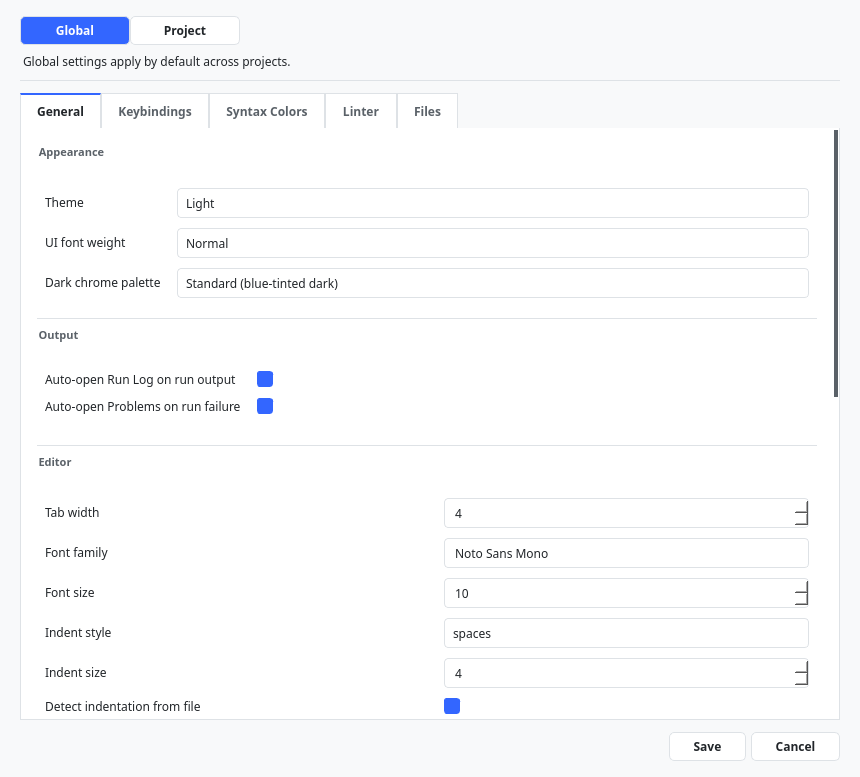
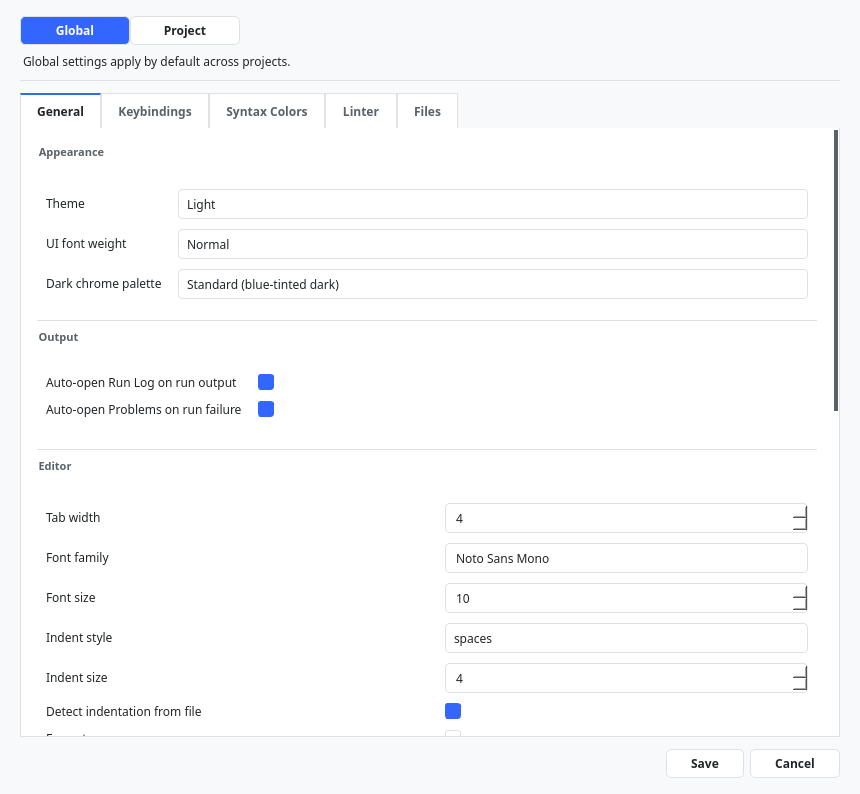
docs(manual): add in-process capture harness + Settings/editor screenshots
- capture_harness.py / capture_run.sh: reproducible in-process Qt grab
  (QWidget.grab) driven through AppRun; builds the real MainWindow, loads the
  demo project, and captures dialogs/panels deterministically. Documented as
  the primary capture method in capture/README.md.
- New screenshots: the four previously-undocumented Settings tabs (Keybindings,
  Syntax Colors, Linter, Files) and a Python-editor-with-Outline shot; refreshed
  General settings shot. Wired into chapters 230 and 070.
- Populated screenshots/shot_list.json (was an empty stub) with every captured
  shot + documented planned gaps; added screenshots/caption_map.md.

diff --git a/docs/manual_complete/screenshots/capture/capture_harness.py b/docs/manual_complete/screenshots/capture/capture_harness.py
@@ -1,0 +1,200 @@
+"""In-process screenshot capture harness for the Complete Edition manual.
+
+Run through FreeCAD AppRun with a real X display, e.g.::
+
+    FREECAD_APPRUN="$HOME/opt/freecad/AppRun" CBCS_ARTIFACTS_DIR="$HOME/cbcs_artifacts" \
+    DISPLAY=:1 ./run_dev.sh   # (not this script; see below)
+
+This script is launched by ``capture_run.sh`` through AppRun. It builds the real
+MainWindow, loads the bundled example project, then drives dialogs/panels
+programmatically and saves deterministic PNGs via ``QWidget.grab()``. This is the
+reproducible, no-mouse capture method (QWidget.grab is DPI-stable and needs no
+external tool), and replaces ad-hoc xdotool choreography.
+
+Output PNGs are written to the directory given by ``CBCS_SHOT_OUT`` (default
+``/tmp/caps``). A human curates and renames the good ones into ``screenshots/``.
+"""
+
+from __future__ import annotations
+
+import os
+import sys
+from pathlib import Path
+
+REPO_ROOT = "/workspace"
+if REPO_ROOT not in sys.path:
+    sys.path.insert(0, REPO_ROOT)
+_VENDOR = os.path.join(REPO_ROOT, "vendor")
+if os.path.isdir(_VENDOR) and _VENDOR not in sys.path:
+    sys.path.insert(0, _VENDOR)
+os.chdir(REPO_ROOT)
+
+# Prevent the harness from spawning REPL / plugin-host subprocesses.
+os.environ.setdefault("CBCS_DISABLE_BACKGROUND_RUNTIME", "1")
+
+OUT_DIR = Path(os.environ.get("CBCS_SHOT_OUT", "/tmp/caps"))
+OUT_DIR.mkdir(parents=True, exist_ok=True)
+EXAMPLE_PROJECT = os.environ.get("CBCS_DEMO_PROJECT", "/workspace/example_projects/crud_showcase")
+
+from PySide2.QtCore import QTimer  # noqa: E402
+from PySide2.QtWidgets import QApplication, QTabWidget  # noqa: E402
+
+from app.bootstrap.capability_probe import run_startup_capability_probe  # noqa: E402
+from app.shell.main_window import MainWindow  # noqa: E402
+
+
+_LOG_FILE = OUT_DIR / "capture_progress.log"
+
+
+def log(msg: str) -> None:
+    line = f"[capture] {msg}"
+    print(line, flush=True)
+    try:
+        with open(_LOG_FILE, "a", encoding="utf-8") as fh:
+            fh.write(line + "\n")
+            fh.flush()
+    except Exception:
+        pass
+
+
+def settle(app: QApplication, ms: int = 400) -> None:
+    from PySide2.QtCore import QElapsedTimer
+
+    t = QElapsedTimer()
+    t.start()
+    while t.elapsed() < ms:
+        app.processEvents()
+
+
+def grab(widget, name: str) -> None:
+    path = OUT_DIR / name
+    pix = widget.grab()
+    pix.save(str(path))
+    log(f"saved {path} ({pix.width()}x{pix.height()})")
+
+
+def capture_modal_tabs(app, trigger, base_name: str, settle_ms: int = 900) -> None:
+    """Open a modal dialog, grab each of its tabs, then close it."""
+
+    def do_grab() -> None:
+        dlg = app.activeModalWidget() or app.activeWindow()
+        if dlg is None:
+            log(f"{base_name}: no modal dialog found")
+            return
+        tabs = dlg.findChild(QTabWidget)
+        if tabs is not None and tabs.count() > 0:
+            for i in range(tabs.count()):
+                tabs.setCurrentIndex(i)
+                settle(app, 250)
+                label = tabs.tabText(i).strip().lower().replace(" ", "_").replace("&", "")
+                grab(dlg, f"{base_name}_{i:02d}_{label}.png")
+        else:
+            grab(dlg, f"{base_name}.png")
+        dlg.close()
+
+    QTimer.singleShot(settle_ms, do_grab)
+    trigger()  # blocks in exec_(); the singleShot fires inside the modal loop
+
+
+def capture_modal(app, trigger, name: str, settle_ms: int = 900) -> None:
+    def do_grab() -> None:
+        dlg = app.activeModalWidget() or app.activeWindow()
+        if dlg is None:
+            log(f"{name}: no modal dialog found")
+            return
+        grab(dlg, name)
+        dlg.close()
+
+    QTimer.singleShot(settle_ms, do_grab)
+    trigger()
+
+
+def main() -> int:
+    log("main() starting")
+    app = QApplication.instance() or QApplication(sys.argv)
+    log("QApplication ready")
+    report = run_startup_capability_probe()
+    log(f"startup probe: {report.available_count}/{report.total_count} checks")
+    log("building MainWindow")
+    win = MainWindow(startup_report=report)
+    log("MainWindow built")
+    win.resize(1500, 950)
+    win.show()
+    log("window shown")
+    settle(app, 800)
+
+    # Load the bundled example project for realistic content.
+    opened = False
+    try:
+        opened = bool(win._file_project_commands_workflow.open_project_by_path(EXAMPLE_PROJECT))
+    except Exception as exc:  # pragma: no cover - diagnostic path
+        log(f"open_project_by_path raised: {exc!r}")
+    log(f"project opened={opened} ({EXAMPLE_PROJECT})")
+    settle(app, 1500)
+
+    grab(win, "win_project_loaded.png")
+
+    # Open main.py so the editor shows real code and the Outline populates.
+    try:
+        main_py = os.path.join(EXAMPLE_PROJECT, "main.py")
+        if win._editor_tab_factory.open_file_in_editor(main_py, preview=False):
+            settle(app, 1200)
+            grab(win, "win_editor_code.png")
+        else:
+            log("open main.py returned False")
+    except Exception as exc:
+        log(f"open main.py failed: {exc!r}")
+
+    # Markdown preview of README.md.
+    try:
+        readme = os.path.join(EXAMPLE_PROJECT, "README.md")
+        if win._editor_tab_factory.open_file_in_editor(readme, preview=False):
+            settle(app, 600)
+            win._editor_tab_workflow.handle_markdown_show_split_action()
+            settle(app, 1000)
+            grab(win, "win_markdown_split.png")
+    except Exception as exc:
+        log(f"markdown preview failed: {exc!r}")
+
+    # Settings dialog: every tab.
+    try:
+        capture_modal_tabs(app, win._file_project_commands_workflow.handle_open_settings_action, "settings")
+    except Exception as exc:
+        log(f"settings capture failed: {exc!r}")
+    settle(app, 400)
+
+    # Test Explorer panel (requires a loaded project).
+    try:
+        if win._activity_bar is not None:
+            win._activity_bar.set_active_view("test_explorer")
+        win._test_runner_workflow.refresh_discovery()
+        settle(app, 1500)
+        grab(win, "win_test_explorer.png")
+    except Exception as exc:
+        log(f"test explorer capture failed: {exc!r}")
+
+    # Plugin Manager dialog.
+    try:
+        capture_modal(app, win._plugin_dialog_workflow.handle_open_plugin_manager_action, "plugin_manager.png")
+    except Exception as exc:
+        log(f"plugin manager capture failed: {exc!r}")
+    settle(app, 400)
+
+    # Dark theme variant of the main window.
+    try:
+        from app.core import constants
+
+        win._shell_preferences_runtime.handle_set_theme(constants.UI_THEME_MODE_DARK)
+        settle(app, 1200)
+        grab(win, "win_dark.png")
+        win._shell_preferences_runtime.handle_set_theme(constants.UI_THEME_MODE_LIGHT)
+        settle(app, 800)
+    except Exception as exc:
+        log(f"theme capture failed: {exc!r}")
+
+    log("done")
+    return 0
+
+
+if __name__ == "__main__":
+    raise SystemExit(main())

diff --git a/docs/manual_complete/screenshots/caption_map.md b/docs/manual_complete/screenshots/caption_map.md
@@ -1,0 +1,48 @@
+# Caption Map (Complete Edition)
+
+Maps each screenshot id to the caption used in the manual and any callout notes. This
+supports deterministic re-capture (see `capture/README.md`) and the maintenance rule:
+when the UI changes, re-capture the shot and keep the caption accurate.
+
+Captions are the image `alt` text in the referencing chapter. The full shot inventory
+(file, chapter, purpose, capture state) lives in `shot_list.json`.
+
+| Shot id | Caption | Notes |
+| --- | --- | --- |
+| 020_getting_started | The in-app Getting Started onboarding dialog | Help > Getting Started |
+| 030_demo_app | The example task-manager app running | crud_showcase launched |
+| 040_window_tour | The main window with a project loaded | Used in the overview |
+| 040_window_tour_annotated | Annotated tour of the main window | Numbered callouts per region |
+| 050_new_project_dialog | The New Project dialog | |
+| 060_tree_context_menu | The project tree right-click menu | File management actions |
+| 070_editor_code | A Python file open in the editor, with syntax highlighting and the Outline panel populated | crud_showcase/main.py |
+| 080_find_in_files | Find in Files results | |
+| 080_quick_open | Quick Open (Ctrl+P) | |
+| 090_run_configurations | The Run Configurations dialog | |
+| 090_run_running | A run in progress with Run Log output | |
+| 090_run_stopped | A finished run | |
+| 090_run_with_args | The Run With Arguments dialog | |
+| 100_markdown_split | Markdown split view (source + preview) | |
+| 110_breakpoint | A breakpoint set in the gutter | |
+| 150_problems_panel | The Problems panel with diagnostics | |
+| 170_global_history | The Global History dialog | |
+| 170_recovery_center | The Recovery Center dialog | |
+| 180_add_dependency | The Add Dependency wizard | |
+| 180_dependency_inspector | The Dependency Inspector | |
+| 190_plugin_manager | The Plugin Manager | |
+| 200_package_wizard | The Package Project wizard | |
+| 230_settings_general | The General settings tab | Appearance/Output/Editor/Intelligence groups |
+| 230_settings_keybindings | The Keybindings settings tab, with a searchable command/shortcut table | |
+| 230_settings_syntax_colors | The Syntax Colors settings tab, showing the per-theme token color table | |
+| 230_settings_linter | The Linter settings tab, with provider selection and the per-rule override table | |
+| 230_settings_files | The Files settings tab, with the File Exclusions and Local History groups | |
+| 240_theme_dark | The Dark theme | |
+| 240_theme_menu | The View > Theme submenu | |
+| 250_keyboard_shortcuts | The in-app Keyboard Shortcuts reference | |
+| 260_menu_file | The File menu | |
+| 260_menu_edit | The Edit menu | |
+| 260_menu_run | The Run menu | |
+| 260_menu_view | The View menu | |
+| 260_menu_tools | The Tools menu | |
+| 260_menu_help | The Help menu | |
+| 340_runtime_center | The Runtime Center | |

diff --git a/docs/manual_complete/screenshots/capture/README.md b/docs/manual_complete/screenshots/capture/README.md
@@ -50,10 +50,38 @@ export DISPLAY=:1
 cd /workspace && ./run_dev.sh        # launches DETACHED; do not pipe stdout (held open by child)
 ```
 
-## Capture method (chosen)
+## Capture method (chosen): in-process Qt grab (primary)
 
-The chosen method is **ImageMagick window capture** (`import -window <id>`). It grabs
-only the application's client area — no desktop wallpaper or panel — and is crisp.
+The **primary, reproducible** method is an in-process capture harness,
+`capture_harness.py`, run through AppRun. It builds the real `MainWindow`, loads the
+demo project, drives dialogs/panels programmatically, and saves each as a PNG via
+`QWidget.grab()`. This needs **no mouse choreography and no window manager**, is
+DPI-stable, and produces dozens of deterministic shots in one run.
+
+```bash
+# A clean, headless X display avoids any wedged-session issues:
+Xvfb :99 -screen 0 1600x1050x24 >/tmp/xvfb.log 2>&1 &
+DISPLAY=:99 CBCS_SHOT_OUT=/tmp/caps \
+  docs/manual_complete/screenshots/capture/capture_run.sh
+# Review /tmp/caps/*.png, then copy the good ones into screenshots/ with shot_list ids.
+```
+
+`capture_run.sh` sets `FREECAD_APPRUN`, `CBCS_ARTIFACTS_DIR`, `XAUTHORITY`,
+`QT_QPA_PLATFORM=xcb`, and `CBCS_DISABLE_BACKGROUND_RUNTIME=1` (so no REPL/plugin-host
+subprocesses spawn), then runs the harness through AppRun. Add new shots by extending
+the capture sequence in `capture_harness.py` (call the relevant workflow method, then
+`grab(...)`); modal dialogs are captured with `QTimer.singleShot` while their `exec_()`
+loop runs.
+
+> [!NOTE] On the standard desktop display (`:1`), a stale X session can wedge new Qt
+> clients (QApplication hangs). Capturing on a throwaway `Xvfb` display sidesteps this
+> and is fully deterministic because `QWidget.grab()` does not need a compositor.
+
+## Alternative method: live-window capture (fallback)
+
+For ad-hoc shots of the live app (or states the harness cannot reach yet), use
+**ImageMagick window capture** (`import -window <id>`). It grabs only the application's
+client area — no desktop wallpaper or panel — and is crisp.
 
 ```bash
 export DISPLAY=:1

diff --git a/docs/manual_complete/chapters/070_editing.md b/docs/manual_complete/chapters/070_editing.md
@@ -8,7 +8,7 @@ the editing helpers built into ChoreBoy Code Studio.
 Open files appear as tabs across the top of the editor. Each tab shows the file name, a
 close button, and a small marker when the file has unsaved changes.
 
-![The editor with a file open](../screenshots/040_window_tour.png)
+![A Python file open in the editor, with syntax highlighting and the Outline panel populated](../screenshots/070_editor_code.png)
 
 ### Preview tabs
 